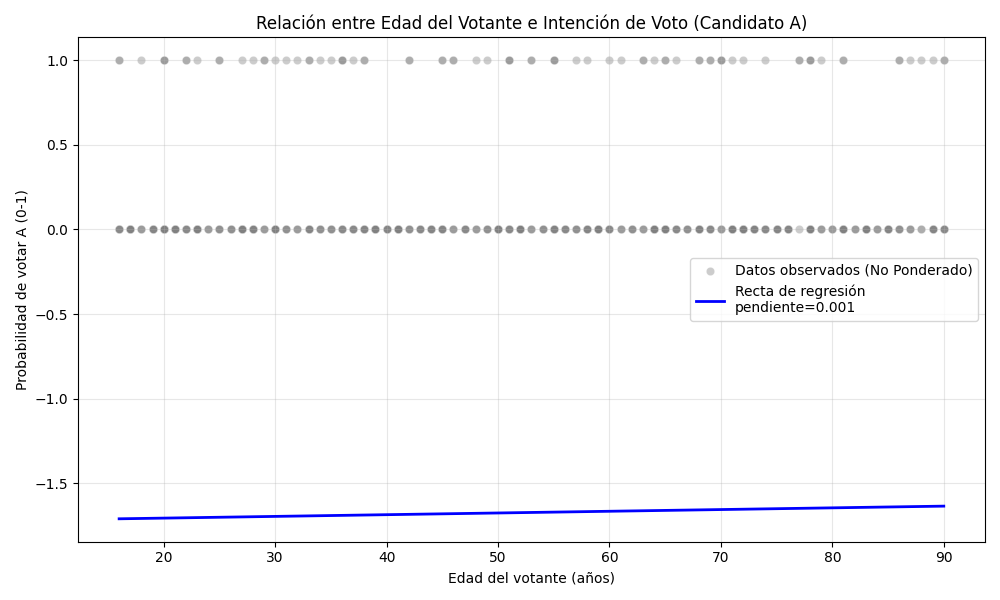
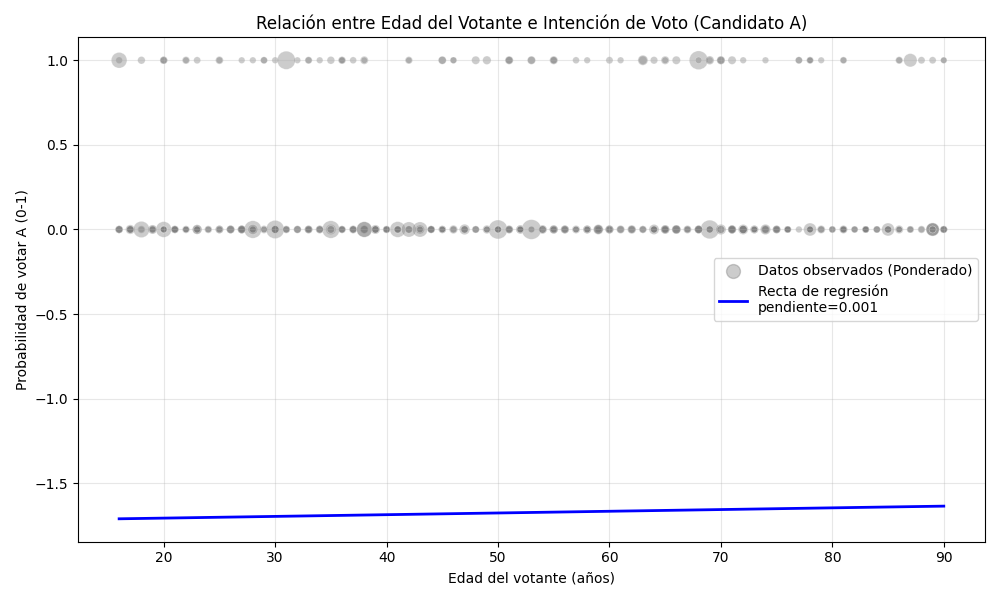
prueba update

diff --git a/src/procesamiento.py b/src/procesamiento.py
@@ -317,7 +317,7 @@ def interpretar_nan(df):
     # edad, integrantes_hogar quedan intactas
     
     return df
-
+#%%
 #INCORPORACION DE PESOS - Ponderacion
 df_poblacion = pd.read_csv("data/pesos_fuente_censo2022.csv", decimal='.')
 def peso_col(df, df_poblacion):
@@ -389,7 +389,7 @@ def peso_col(df, df_poblacion):
         pass
 
     return df
-
+#%%
 #TRATAMIENTO DE VARIABLES CLAVE
 
 #DESCRIPTIVOS DE IMAGEN
@@ -615,7 +615,7 @@ def plot_imagen_por_rango(df):
         df["rango_etario"],
         columns="Imagen Promedio",
         values=df["imagen_candidato"],
-        aggfunc="mean"
+        aggfunc="np.average"
     )
 
     # Plot
@@ -633,7 +633,7 @@ def plot_imagen_por_rango(df):
     return tabla, fig
 
 # REGRESIÓN LINEAL SIMPLE: Imagen vs edad
-def regresion_imagen_edad(df):
+def regresion_imagen_edad(df, peso_col=None):
     
     #Regresión Lineal Simple Ponderada
     

diff --git a/src/main.py b/src/main.py
@@ -102,16 +102,15 @@ tabla_transf, fig_transf = heatmap_transferencia(df, peso_col="peso")
     #Guardado de heatmap
 ruta_guardado_heatmap = os.path.join(output_dir, "heatmap_transferencia.png")
 fig_transf.savefig(ruta_guardado_heatmap)
+print(tabla_transf)
 plt.close(fig_transf)
-
 
 #REGRESION LINEAL
 from procesamiento import regresion_imagen_edad
-tabla_reg_edad, fig_reg_edad = regresion_imagen_edad(df)
+tabla_reg_edad, fig_reg_edad = regresion_imagen_edad(df, peso_col="peso")
+print(tabla_reg_edad.summary())
 
     #Guardado de regresion
 ruta_guardado_reg = os.path.join(output_dir, "regresion_imagen_edad.png")
 tabla_reg_edad, fig_reg_edad.savefig(ruta_guardado_reg)
-plt.close(tabla_reg_edad, fig_reg_edad)
-
-
+plt.close(fig_reg_edad)
